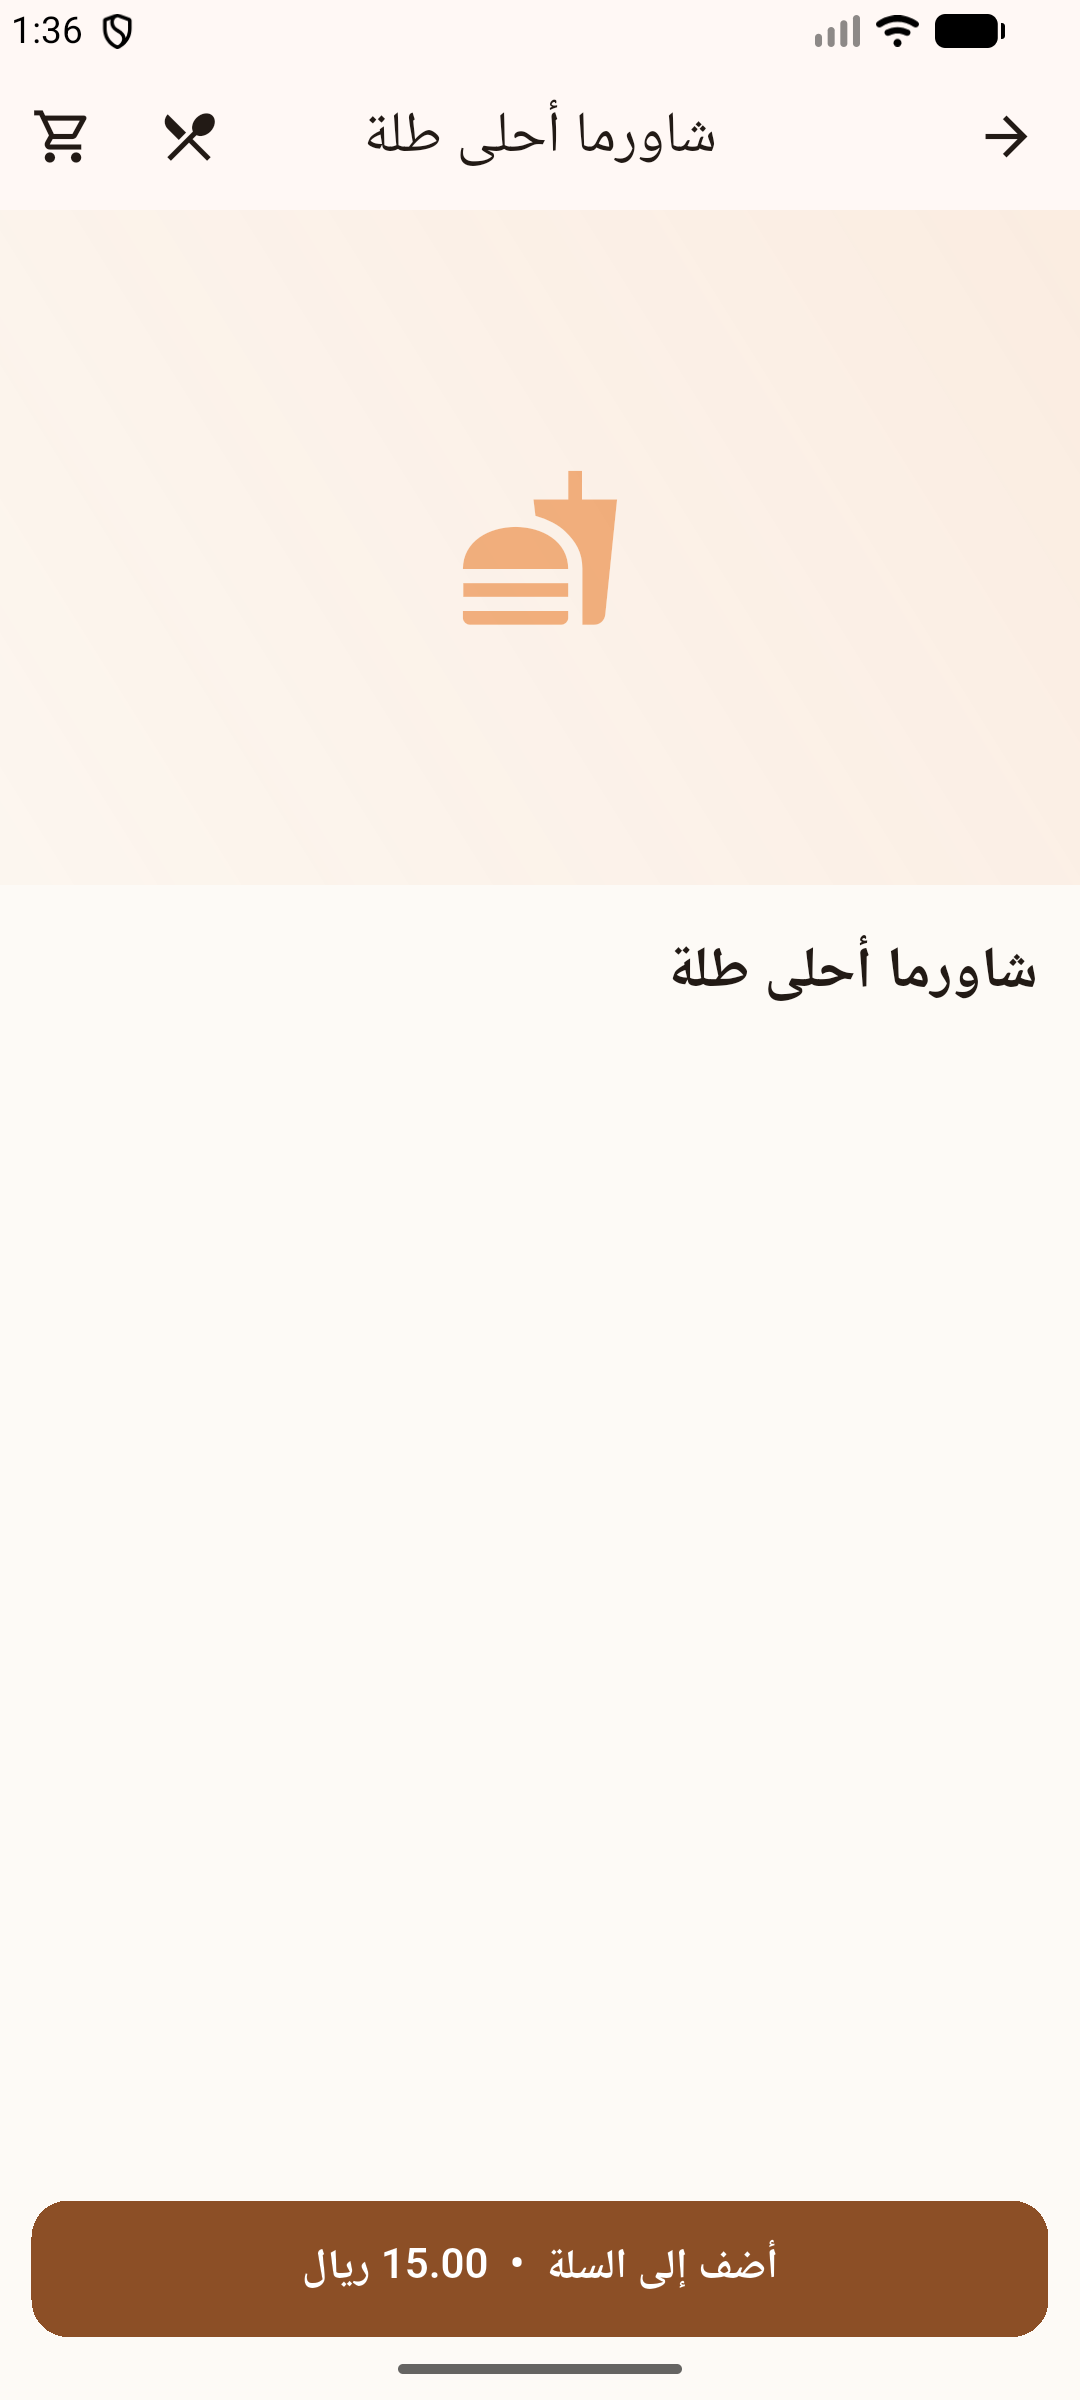
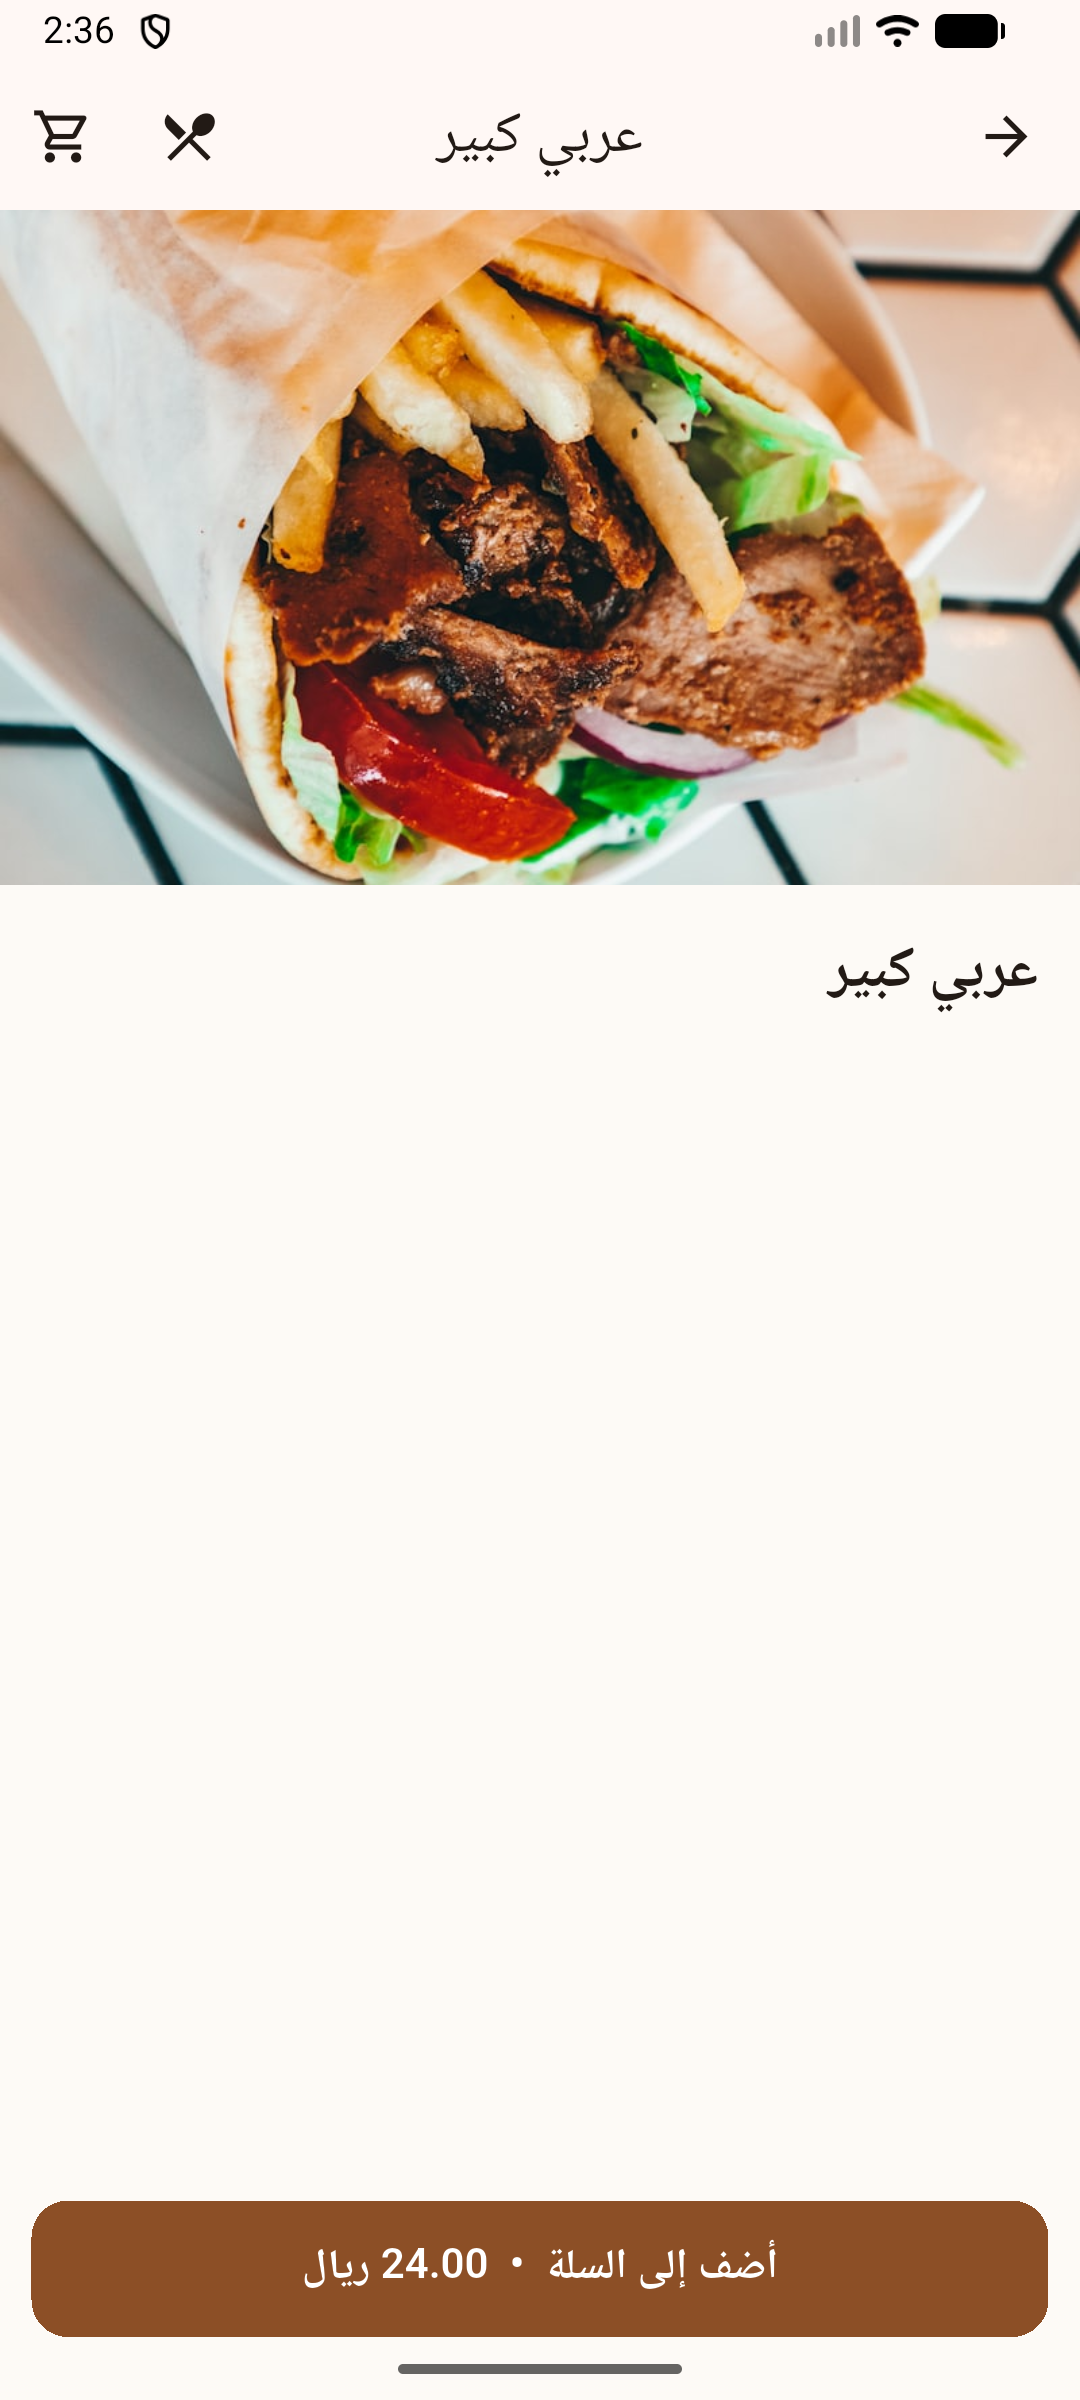
Switch mock food photos from loremflickr to curated Unsplash CDN
Loremflickr was returning 500 on roughly half of requests, so items
and category tiles kept falling through to the FoodImage fork+knife
brand fallback in screenshots. Replaced with hand-picked Unsplash
photo ids (2 per category so items don't all look identical, pinned
by id % 2 for stability) served straight from images.unsplash.com,
which has effectively 99.99% uptime and never rate-limits reads.

Every URL was HTTP HEAD-checked before commit; the two 404s I hit on
the first pass got swapped for known-good ids.

Also re-shot all 6 Play Store screenshots against the local backend
after `flask mock-images --force`: home, shawarma items list,
item detail hero, cart, review (WELCOME10 applied, cash selected,
subtotal 24 → total 21.60), and confirmation (order AT-2026-000035
with 4-step status timeline). All tiles now show real food photos.

Deploy note: on production, redeploy the backend and run
    flask mock-images --force
inside the app container to refresh the URLs already stored in the
prod DB. Without --force, only items whose current image_path is
already a loremflickr URL get replaced (real admin uploads stay
untouched either way).

Claude-Session: https://claude.ai/code/session_01Jgg7ZrzeCMi7tG779oamq3

Changed region(s): [[0.0, 0.0312, 1.0, 0.4375], [0.0306, 0.0, 0.1528, 0.0312], [0.3667, 0.9375, 0.3972, 0.9688]]

diff --git a/backend/mock_images.py b/backend/mock_images.py
@@ -1,13 +1,21 @@
-"""Assign mock food images to items + categories so the app looks full while
-real photography is still being shot.
+"""Assign real food photos to items + categories so the app looks polished
+while the shop's own photography is being shot.
 
-Uses **loremflickr.com** — a free service that returns a random food photo
-keyed by a stable `lock` id, so each item gets its own image that never
-changes between calls.
+Photos come from **Unsplash's static image CDN** (`images.unsplash.com`).
+Each URL is a specific hand-picked photo pinned by its Unsplash photo id,
+so results are stable across calls, safe to ship in Play Store screenshots,
+and 99.99% uptime. Loremflickr was flaky (500s in ~half of requests) and
+kept surfacing the "broken image" fallback in the UI.
+
+Two photos are cycled per category so items in the same category aren't
+identical thumbnails. Items are pinned to one of the two by `id % 2`.
 
 Usage:
     flask mock-images            # fill in missing images only
-    flask mock-images --force    # overwrite any image_path (even real uploads)
+    flask mock-images --force    # overwrite existing image_paths (real
+                                 # uploads made via /admin later still
+                                 # win because they set image_path to a
+                                 # relative /uploads/... instead of a URL)
 """
 from __future__ import annotations
 
@@ -17,66 +25,94 @@ from flask import Flask
 from app.extensions import db
 from app.models import Category, Item, Offer
 
+# Direct Unsplash CDN URLs, tuned to 800×800 (item / category thumbnail
+# aspect) and 1600×800 (offer banner) with q=70 to keep bytes small on
+# 4G. Two photos per category so item tiles don't all look identical.
+_ITEM_QS = "?auto=format&fit=crop&w=800&h=800&q=70"
+_HERO_QS = "?auto=format&fit=crop&w=1600&h=800&q=70"
 
-# Food keywords per category — keeps the visual roughly on-theme.
-CATEGORY_KEYWORDS = {
-    "ركن الشاورما": "shawarma",
-    "المشويات": "grill,kebab",
-    "مشكل لحم ودجاج": "grill,meat",
-    "مشكلات لحم": "meat,kebab",
-    "مشكلات دجاج": "chicken,grill",
-    "الطواجن": "tagine,stew",
-    "السندوشات": "sandwich",
-    "أطباق جانبية وإضافات": "arabic,food",
-    "الرز": "rice",
-    "الشوربة": "soup",
-    "السلطات": "salad",
-    "الحلا": "dessert,arabic",
-    "الكوكتيل": "cocktail,juice",
-    "العصائر": "juice,fruit",
-    "المشروبات الغازية": "soda,drink",
+# name_ar → [photo_id, photo_id]
+CATEGORY_PHOTOS: dict[str, list[str]] = {
+    "ركن الشاورما": ["photo-1633321702518-7feccafb94d5", "photo-1561651823-34feb02250e4"],
+    "المشويات": ["photo-1544025162-d76694265947", "photo-1529193591184-b1d58069ecdd"],
+    "مشكل لحم ودجاج": ["photo-1544025162-d76694265947", "photo-1567620832903-9fc6debc209f"],
+    "مشكلات لحم": ["photo-1529193591184-b1d58069ecdd", "photo-1544025162-d76694265947"],
+    "مشكلات دجاج": ["photo-1567620832903-9fc6debc209f", "photo-1598515214211-89d3c73ae83b"],
+    "الطواجن": ["photo-1544378730-8b5104b18790", "photo-1547592180-85f173990554"],
+    "السندوشات": ["photo-1528735602780-2552fd46c7af", "photo-1568901346375-23c9450c58cd"],
+    "أطباق جانبية وإضافات": ["photo-1512058564366-18510be2db19", "photo-1517244683847-7456b63c5969"],
+    "الرز": ["photo-1512058564366-18510be2db19", "photo-1596797038530-2c107229654b"],
+    "الشوربة": ["photo-1547592180-85f173990554", "photo-1548943487-a2e4e43b4853"],
+    "السلطات": ["photo-1512621776951-a57141f2eefd", "photo-1540420773420-3366772f4999"],
+    "الحلا": ["photo-1551024506-0bccd828d307", "photo-1587314168485-3236d6710814"],
+    "الكوكتيل": ["photo-1544145945-f90425340c7e", "photo-1546171753-97d7676e4602"],
+    "العصائر": ["photo-1546173159-315724a31696", "photo-1613478223719-2ab802602423"],
+    "المشروبات الغازية": ["photo-1550505095-81378a674395", "photo-1581636625402-29b2a704ef13"],
 }
+
+# Fallback pool for any category the map above forgets.
+_FALLBACK = ["photo-1504674900247-0877df9cc836", "photo-1546069901-ba9599a7e63c"]
+
+# Rotating hero banners for offers.
+OFFER_PHOTOS = [
+    "photo-1565299624946-b28f40a0ae38",  # pizza spread
+    "photo-1571091718767-18b5b1457add",  # burger meal
+    "photo-1546069901-ba9599a7e63c",     # colourful bowl
+    "photo-1567620832903-9fc6debc209f",  # grilled chicken plate
+]
+
+
+def _unsplash(photo_id: str, hero: bool = False) -> str:
+    return f"https://images.unsplash.com/{photo_id}{_HERO_QS if hero else _ITEM_QS}"
 
 
 def _url_for_item(item: Item) -> str:
-    kw = CATEGORY_KEYWORDS.get(item.category.name_ar if item.category else "", "food")
-    return f"https://loremflickr.com/600/600/{kw}?lock={item.id}"
+    key = item.category.name_ar if item.category else ""
+    pool = CATEGORY_PHOTOS.get(key, _FALLBACK)
+    return _unsplash(pool[item.id % len(pool)])
 
 
 def _url_for_category(cat: Category) -> str:
-    kw = CATEGORY_KEYWORDS.get(cat.name_ar, "food")
-    return f"https://loremflickr.com/800/500/{kw}?lock=cat{cat.id}"
+    pool = CATEGORY_PHOTOS.get(cat.name_ar, _FALLBACK)
+    return _unsplash(pool[0])
 
 
 def _url_for_offer(offer: Offer) -> str:
-    return f"https://loremflickr.com/1200/600/food,restaurant?lock=offer{offer.id}"
+    return _unsplash(OFFER_PHOTOS[offer.id % len(OFFER_PHOTOS)], hero=True)
 
 
 def register_cli(app: Flask) -> None:
     @app.cli.command("mock-images")
-    @click.option("--force", is_flag=True, help="Overwrite existing image_paths (even real uploads).")
+    @click.option("--force", is_flag=True, help="Overwrite existing image_paths (including any that already point to a URL).")
     def mock_images_cmd(force: bool) -> None:
-        """Fill items / categories / offers with placeholder food photos."""
+        """Fill items / categories / offers with curated Unsplash food photos."""
         items = db.session.query(Item).all()
         cats = db.session.query(Category).all()
         offers = db.session.query(Offer).all()
 
+        # A real admin upload writes a relative path like "menu/xyz.jpg",
+        # never a URL. So "starts with http" is a safe way to spot our
+        # own mock entries and refresh only those on a non-forced run —
+        # real photography stays put.
+        def _is_mock(path: str | None) -> bool:
+            return bool(path and path.startswith("http"))
+
         i_touched = c_touched = o_touched = 0
         for it in items:
-            if it.image_path and not force:
+            if it.image_path and not force and not _is_mock(it.image_path):
                 continue
             it.image_path = _url_for_item(it)
             i_touched += 1
         for c in cats:
-            if c.image_path and not force:
+            if c.image_path and not force and not _is_mock(c.image_path):
                 continue
             c.image_path = _url_for_category(c)
             c_touched += 1
         for o in offers:
-            if o.image_path and not force:
+            if o.image_path and not force and not _is_mock(o.image_path):
                 continue
             o.image_path = _url_for_offer(o)
             o_touched += 1
         db.session.commit()
-        click.echo(f"✅ Mock images assigned — items:{i_touched}, categories:{c_touched}, offers:{o_touched}")
-        click.echo("   (real photos uploaded via /admin later will replace these; pass --force to override)")
+        click.echo(f"OK - photos assigned: items={i_touched}, categories={c_touched}, offers={o_touched}")
+        click.echo("     (real /admin uploads always win; run with --force to also refresh those)")
